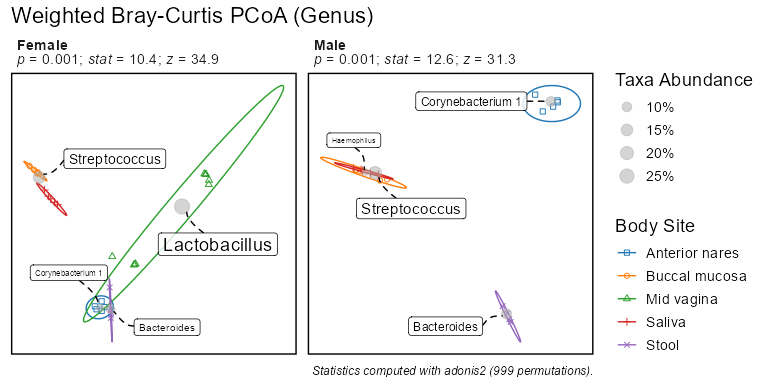
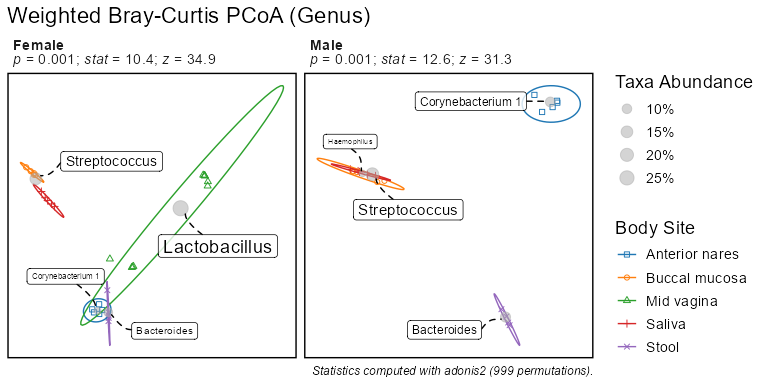
Prepare for rbiom 2.2.1 CRAN Release

diff --git a/NEWS.md b/NEWS.md
@@ -1,3 +1,8 @@
+# rbiom 2.2.1
+
+* Compatibility fixes for ggplot2 4.0.0 #30
+
+
 # rbiom 2.2.0
 
 * Satisfy new R CMD check: no setting attributes on built-in functions. #28
